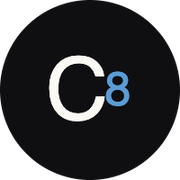
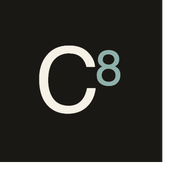
Apply V2 design system
Token changes:
- Ink: #0F0F12 → #1A1815 (warmer)
- Surface: #FBF9F3 → #F6F1E6 (parchment)
- Accent: #5B9BD5 (sky) → #8FB0AA (aqua) + #5F837C deep
- Line tokens replace hard-coded rgba borders
- The 8 superscript now always carries the aqua accent colour

Also ships V2 logo set: 4 wordmark + 4 monogram PNGs rendered in Inter,
plus SVG wordmarks. Favicon updated to V2 C8 monogram on ink.

diff --git a/index.html b/index.html
@@ -11,18 +11,28 @@
 <link href="https://fonts.googleapis.com/css2?family=Inter:wght@300;400;500;600;700;900&family=JetBrains+Mono:wght@400;500&display=swap" rel="stylesheet">
 <style>
 :root {
-  --ink:     #0F0F12;
-  --g1:      #2E2E33;
-  --g2:      #585862;
-  --g3:      #8D8D96;
-  --mist:    #BEBEBF;
-  --parch:   #EDE8DB;
-  --paper:   #FBF9F3;
-  --accent:  #5B9BD5;
-  --accent-pale: #EEF7D5;
+  /* V2 core palette */
+  --ink:        #1A1815;   /* warm dark */
+  --paper:      #F6F1E6;   /* parchment */
+  --accent:     #8FB0AA;   /* aqua — the 8, highlights, dark-surface accents */
+  --accent-deep:#5F837C;   /* aqua deep — accent text on light surfaces */
+
+  /* support neutrals */
+  --stone:      #6E665A;   /* secondary text on parchment */
+  --mist:       #9B9384;   /* tertiary / captions */
+  --g1:         #2E2A27;   /* subtle dark surface */
+  --line:       rgba(26,24,21,.12);      /* borders on light */
+  --line-dark:  rgba(246,241,230,.12);   /* borders on dark */
+
+  /* legacy aliases kept for backward compat */
+  --g2: var(--stone);
+  --g3: var(--mist);
+  --parch: var(--paper);
+
   --mono: 'JetBrains Mono', monospace;
   --sans: 'Inter', -apple-system, BlinkMacSystemFont, sans-serif;
   --ease: cubic-bezier(0.2, 0, 0, 1);
+  --radius: 2px;
 }
 
 *, *::before, *::after { box-sizing: border-box; margin: 0; padding: 0; }
@@ -42,8 +52,8 @@ nav {
   padding: 20px clamp(24px, 5vw, 80px);
   backdrop-filter: blur(20px);
   -webkit-backdrop-filter: blur(20px);
-  background: rgba(15,15,18,.7);
-  border-bottom: 1px solid rgba(251,249,243,.06);
+  background: rgba(26,24,21,.75);
+  border-bottom: 1px solid rgba(246,241,230,.07);
 }
 .nav-wm {
   font-family: var(--sans);
@@ -57,6 +67,7 @@ nav {
   font-size: .55em;
   vertical-align: .55em;
   letter-spacing: 0;
+  color: var(--accent);
 }
 .nav-links {
   display: flex; gap: 28px; align-items: center;
@@ -105,9 +116,9 @@ nav {
   inset: 0;
   background: linear-gradient(
     to bottom,
-    rgba(15,15,18,.72) 0%,
-    rgba(15,15,18,.52) 40%,
-    rgba(15,15,18,.80) 100%
+    rgba(26,24,21,.72) 0%,
+    rgba(26,24,21,.52) 40%,
+    rgba(26,24,21,.80) 100%
   );
 }
 .hero-kicker {
@@ -153,7 +164,7 @@ nav {
 }
 .btn:hover { opacity: .85; }
 .btn-primary { background: var(--paper); color: var(--ink); }
-.btn-secondary { background: transparent; color: var(--paper); border: 1px solid rgba(251,249,243,.2); }
+.btn-secondary { background: transparent; color: var(--paper); border: 1px solid var(--line-dark); }
 
 /* ── SPEC STRIP ──────────────────────── */
 .spec-strip {
@@ -164,7 +175,7 @@ nav {
 }
 .spec-col {
   padding: clamp(24px, 3vw, 40px) clamp(16px, 3vw, 40px);
-  border-right: 1px solid rgba(15,15,18,.08);
+  border-right: 1px solid var(--line);
 }
 .spec-col:last-child { border-right: none; }
 .spec-label {
@@ -182,7 +193,8 @@ nav {
   line-height: 1;
   color: var(--ink);
 }
-.spec-val.accent { color: var(--accent); }
+/* spec strip sits on parchment — use deep aqua for contrast */
+.spec-val.accent { color: var(--accent-deep); }
 
 /* ── SECTIONS ────────────────────────── */
 .section {
@@ -234,7 +246,7 @@ nav {
   display: flex;
   justify-content: space-between;
   padding: 12px 0;
-  border-bottom: 1px solid rgba(251,249,243,.08);
+  border-bottom: 1px solid var(--line-dark);
   font-family: var(--mono);
   font-size: 11px;
   letter-spacing: .08em;
@@ -251,14 +263,14 @@ nav {
   margin-top: 48px;
 }
 .how-card {
-  background: rgba(15,15,18,.04);
+  background: rgba(26,24,21,.05);
   padding: clamp(24px, 3vw, 40px);
 }
 .how-num {
   font-family: var(--mono);
   font-size: 10px;
   letter-spacing: .2em;
-  color: var(--accent);
+  color: var(--accent-deep); /* parchment surface — use deep aqua */
   margin-bottom: 20px;
 }
 .how-card h3 {
@@ -306,7 +318,7 @@ nav {
 .signup-input {
   flex: 1;
   background: transparent;
-  border: 1px solid rgba(251,249,243,.18);
+  border: 1px solid rgba(246,241,230,.2);
   color: var(--paper);
   font-family: var(--sans);
   font-size: 14px;
@@ -336,7 +348,7 @@ nav {
 
 /* ── FOOTER ──────────────────────────── */
 footer {
-  border-top: 1px solid rgba(251,249,243,.08);
+  border-top: 1px solid var(--line-dark);
   padding: 32px clamp(24px, 5vw, 80px);
   display: flex;
   justify-content: space-between;
@@ -360,7 +372,7 @@ footer a:hover { color: var(--paper); }
   /* spec strip — 2 cols, add row divider */
   .spec-strip { grid-template-columns: repeat(2, 1fr); }
   .spec-col:nth-child(1),
-  .spec-col:nth-child(2) { border-bottom: 1px solid rgba(15,15,18,.08); }
+  .spec-col:nth-child(2) { border-bottom: 1px solid var(--line); }
   .spec-col:nth-child(2) { border-right: none; }
 
   /* product — stack, centre image */
@@ -388,9 +400,9 @@ footer a:hover { color: var(--paper); }
 @media (max-width: 480px) {
   /* spec strip — single col */
   .spec-strip { grid-template-columns: 1fr; }
-  .spec-col { border-right: none; border-bottom: 1px solid rgba(15,15,18,.08); }
+  .spec-col { border-right: none; border-bottom: 1px solid var(--line); }
   .spec-col:nth-child(1),
-  .spec-col:nth-child(2) { border-bottom: 1px solid rgba(15,15,18,.08); }
+  .spec-col:nth-child(2) { border-bottom: 1px solid var(--line); }
   .spec-col:last-child { border-bottom: none; }
 
   /* product image */
@@ -439,7 +451,7 @@ footer a:hover { color: var(--paper); }
 .gate-input {
   flex: 1;
   background: transparent;
-  border: 1px solid rgba(251,249,243,.18);
+  border: 1px solid rgba(246,241,230,.2);
   color: var(--paper);
   font-family: var(--sans);
   font-size: 14px;
@@ -558,7 +570,7 @@ footer a:hover { color: var(--paper); }
 </section>
 
 <!-- ── HOW IT WORKS ──────────────────── -->
-<section class="section" id="how" style="background:var(--paper);color:var(--ink);border-top:1px solid rgba(15,15,18,.06);">
+<section class="section" id="how" style="background:var(--paper);color:var(--ink);border-top:1px solid var(--line);">
   <div class="section-inner">
     <h2 style="font-size:clamp(28px,4vw,44px);font-weight:700;letter-spacing:-.035em;line-height:1.1;color:var(--ink);">How carbon-negative chalk works.</h2>
     <div class="forge-partner" style="display:flex;align-items:center;gap:16px;margin-top:20px;margin-bottom:4px;flex-wrap:wrap;">